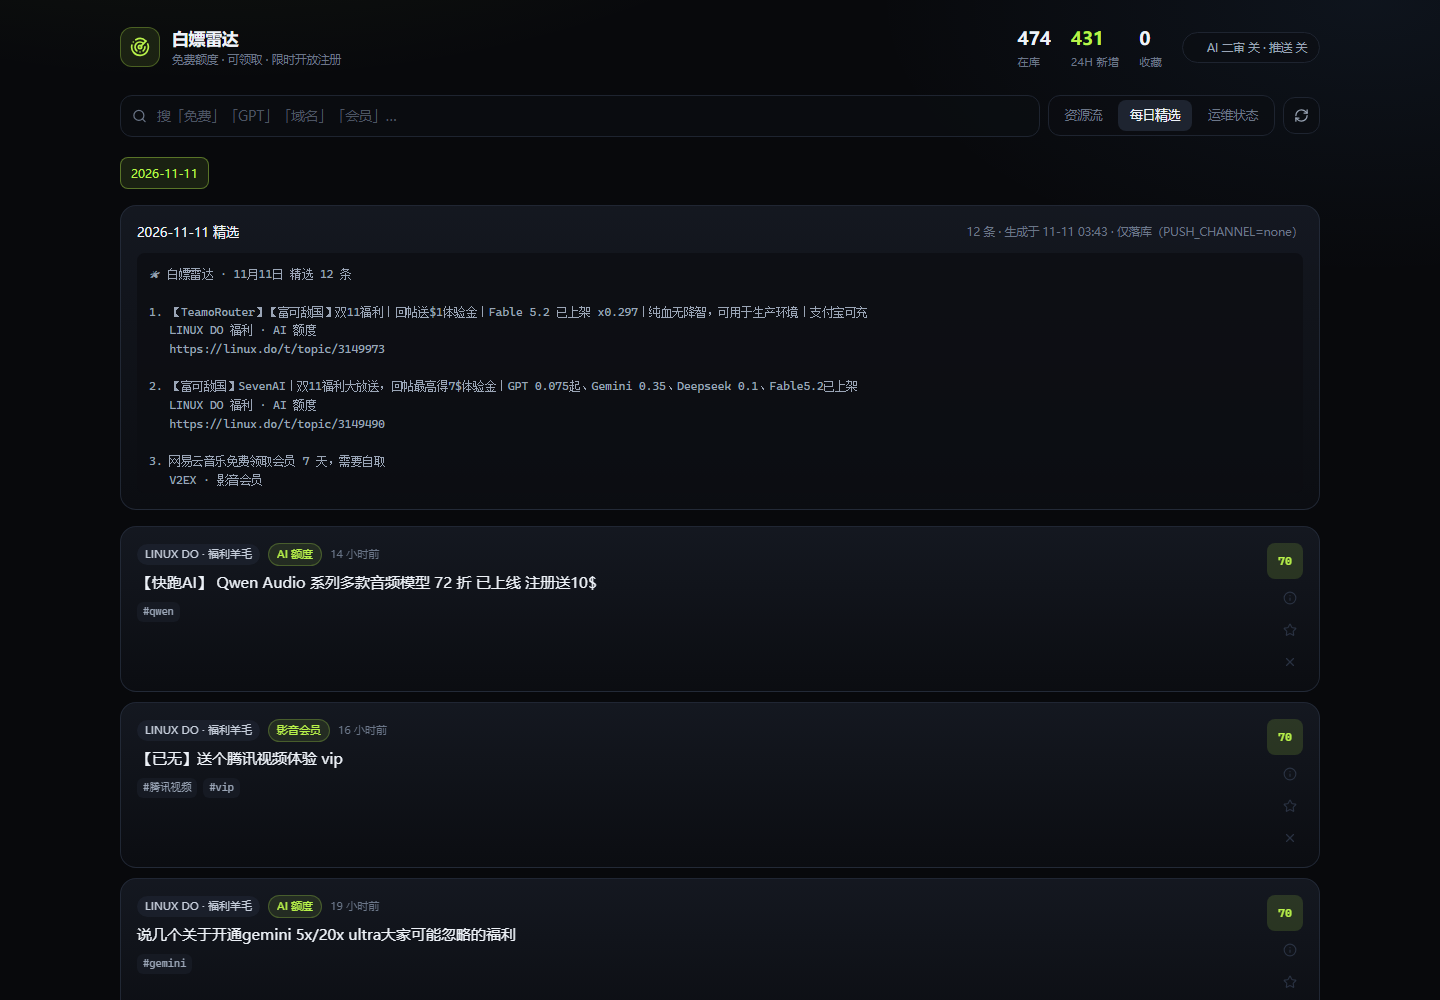
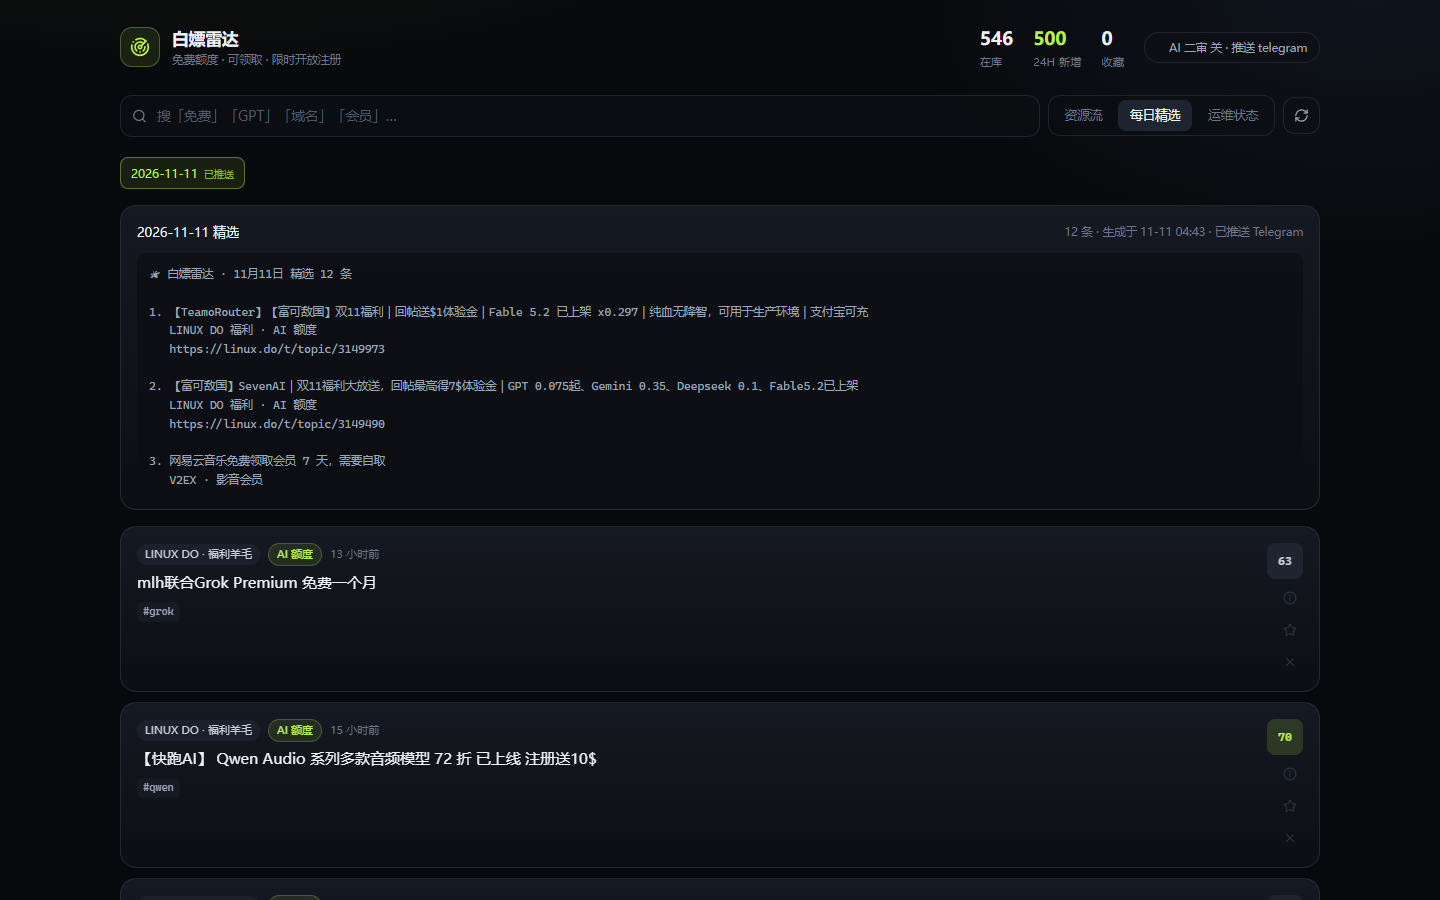
fix: degraded 上报、调度跳过 ingest 源、精选质量门槛、日报截图更新（第三轮审计修复）

diff --git a/src/server/collectors/index.ts b/src/server/collectors/index.ts
@@ -57,6 +57,22 @@ export function ingestItems(sourceId: string, items: RawItem[]): { inserted: num
   }
 }
 
+/** 本机采集器上报「登录态失效 / 被风控 / 抓不到内容」：写 runs 并标记 sources 状态，让 /status 如实反映。 */
+export function markSourceFailure(
+  sourceId: string,
+  reason: string,
+  status: "degraded" | "failed" = "degraded",
+): { ok: true; status: string } {
+  ensureSources();
+  const now = new Date().toISOString();
+  run(
+    "INSERT INTO runs (source_id, started_at, finished_at, status, fetched, inserted, skipped, duration_ms, error) VALUES (?, ?, ?, ?, 0, 0, 0, 0, ?)",
+    sourceId, now, now, status, reason.slice(0, 500),
+  );
+  run("UPDATE sources SET last_run_at = ?, last_status = ?, last_error = ? WHERE id = ?", now, status, reason.slice(0, 300), sourceId);
+  return { ok: true, status };
+}
+
 type SourceRow = {
   id: string;
   name: string;
@@ -289,7 +305,11 @@ export async function runAll(
   options: { http?: HttpClient; maxItems?: number; log?: (message: string) => void } = {},
 ): Promise<RunSummary[]> {
   ensureSources();
-  const rows = all<{ id: string }>("SELECT id FROM sources WHERE enabled = 1 ORDER BY id").map((r) => r.id);
+  // kind 没有对应 collector 的源（例如 kind="ingest"，由本机采集器回传）不参与服务器调度，
+  // 否则每轮都会产生 "no collector registered" 的无意义失败。
+  const rows = all<{ id: string; kind: string }>("SELECT id, kind FROM sources WHERE enabled = 1 ORDER BY id")
+    .filter((r) => BY_KIND.has(r.kind))
+    .map((r) => r.id);
   const filter = config.enabledSources;
   const targets = filter.length ? rows.filter((id) => filter.includes(id)) : rows;
   const out: RunSummary[] = [];

diff --git a/src/server/digest.ts b/src/server/digest.ts
@@ -55,8 +55,20 @@ export function pickDaily(date = new Date(), topN = config.dailyTopN): DigestIte
   );
 
   const pushed = alreadyPushed(dayKey(date));
-  return rows.filter((r) => !pushed.has(r.id)).slice(0, topN);
+  const fresh = rows.filter((r) => !pushed.has(r.id));
+
+  // 质量门槛：精选必须既是高分，标题里也真的带「免费/领取/限额」这类福利信号，
+  // 否则「豆包月卡不够用了」这种讨论帖会混进日报。
+  const strict = fresh.filter((r) => r.score >= MIN_DIGEST_SCORE && DEAL_HINT.test(r.title) && !NOISE_TITLE.test(r.title));
+  // 数量不足时只放宽分数，绝不放宽关键词：宁可一天少发几条，也不让讨论帖混进精选
+  const relaxed = fresh.filter((r) => DEAL_HINT.test(r.title) && !NOISE_TITLE.test(r.title) && r.score >= MIN_DIGEST_SCORE - 10);
+  const pool = strict.length >= Math.min(6, topN) ? strict : relaxed;
+  return pool.slice(0, topN);
 }
+const NOISE_TITLE = /^(怎样|怎么|如何|哪里|哪个)|请问|有没有|求推荐|求一个|哪里(有|能)|值得买吗|怎么样\?|不够用|用完了|失效了|吐槽|踩坑|后悔|失望|盘点|评测|测评/;
+
+const MIN_DIGEST_SCORE = 55;
+const DEAL_HINT = /免费|领取|赠送|白嫖|零元|0\.01|试用|体验金|兑换|激活码|注册送|限时|开放注册|额度|礼包|优惠券|包邮|giveaway|coupon|free/i;
 
 const SOURCE_SHORT: Record<string, string> = {
   "linuxdo-welfare": "LINUX DO 福利",

diff --git a/src/server/routes.ts b/src/server/routes.ts
@@ -1,7 +1,7 @@
 import type { Hono } from "hono";
 import { all, get } from "./db.ts";
 import { aiEnabled, config, pushEnabled } from "./config.ts";
-import { ingestItems } from "./collectors/index.ts";
+import { ingestItems, markSourceFailure } from "./collectors/index.ts";
 import type { RawItem } from "./collectors/types.ts";
 
 export type ItemRow = {
@@ -191,6 +191,16 @@ export function registerApi(app: Hono) {
     });
     const saved = ingestItems(body.sourceId, items);
     return c.json({ ok: true, received: body.items.length, ...saved });
+  });
+
+  app.post("/api/ingest/failed", async (c) => {
+    if (!config.ingestToken) return c.json({ error: "INGEST_TOKEN 未配置" }, 403);
+    const auth = c.req.header("authorization") ?? "";
+    if (auth !== "Bearer " + config.ingestToken) return c.json({ error: "unauthorized" }, 401);
+    const body = (await c.req.json().catch(() => null)) as { sourceId?: string; reason?: string; status?: string } | null;
+    if (!body?.sourceId || !body.reason) return c.json({ error: "sourceId 与 reason 必填" }, 400);
+    const status = body.status === "failed" ? "failed" : "degraded";
+    return c.json(markSourceFailure(body.sourceId, body.reason, status));
   });
   app.get("/api/digests", (c) => {
     return c.json({ digests: all("SELECT date, item_ids, created_at, pushed_at FROM digests ORDER BY date DESC LIMIT 30") });

diff --git a/src/web/src/App.tsx b/src/web/src/App.tsx
@@ -346,7 +346,7 @@ function ItemDetail({ item, onClose, onPatch }: { item: Item; onClose: () => voi
   );
 }
 
-function DigestPanel() {
+function DigestPanel({ onPatch, onOpen }: { onPatch: (id: number, body: Record<string, unknown>) => void; onOpen: (item: Item) => void }) {
   const list = useApi<{ digests: { date: string; created_at: string; pushed_at: string | null }[] }>("/api/digests");
   const dates = list.data?.digests ?? [];
   const [picked, setPicked] = useState<string | null>(null);
@@ -405,7 +405,7 @@ function DigestPanel() {
 
           <div className="space-y-2.5">
             {detail.data.items.map((item) => (
-              <ItemCard key={item.id} item={item} onPatch={() => {}} onOpen={() => {}} />
+              <ItemCard key={item.id} item={item} onPatch={onPatch} onOpen={onOpen} />
             ))}
           </div>
         </>
@@ -648,7 +648,7 @@ export function App() {
 
         <main className="min-w-0 flex-1">
           {tab === "digest" ? (
-            <DigestPanel />
+            <DigestPanel onPatch={patch} onOpen={setDetail} />
           ) : tab === "status" ? (
             <StatusPanel sources={sources.data?.sources ?? []} runs={runs.data?.runs ?? []} />
           ) : (

diff --git a/docs/deploy.md b/docs/deploy.md
@@ -64,6 +64,16 @@ fresh stats:   {"total":10,"active":10,...}
 | README 陈旧（ego-browser / local-collect.mjs） | 全部改为 Playwright + `scripts/pw-collect.mjs` | README 内已无 ego 相关描述 |
 | 前端缺详情视图、SOURCE_LABEL 缺新源、token 硬编码 | 新增 `ItemDetail` 弹窗（摘要/时间/标签/收藏/忽略/原文）；补齐 5 个源的显示名；`pw-collect.mjs` 改为从 `.env` 读 `INGEST_TOKEN`，缺失即退出 | `pnpm build` 通过；`node --check scripts/pw-collect.mjs` 通过 |
 
+### 第三轮修复（针对第二次审计驳回）
+
+| 审计意见 | 修复 | 验证 |
+|---|---|---|
+| 登录态失效时不标 degraded、不写 /status | 新增 `POST /api/ingest/failed`（Bearer 鉴权）+ `markSourceFailure()`；`pw-collect.mjs` 在「需要登录 / 0 条 / 抓取异常」三条路径上报 degraded/failed | 实测：`{"ok":true,"status":"degraded"}`，`/api/sources` 中 zhihu-search 变为 `degraded` 且 `last_error=测试登录态失效`；随后真实采集恢复为 `ok` |
+| 服务器调度把 ingest 源当不支持的源 | `runAll()` 只取 `kind` 有注册 collector 的源，ingest 源不参与服务器调度 | 实测 `ENABLED_SOURCES=zhihu-search collect` → `[collect] done: 0 sources, 0 failed`，不再出现 `no collector registered` |
+| 每日精选里的详情/收藏/忽略按钮无操作 | `DigestPanel` 接收真实 `onPatch` / `onOpen`，与资源流共用同一套 handler | `tsc` 通过，构建产物含「查看详情」「打开原文」 |
+| 日报截图显示「推送关」，与推送声明不一致 | 用 Playwright 重新截图线上 `#digest` | `docs/ui-digest.png` 现在显示「推送 telegram」「2026-11-11 已推送」「12 条 · 已推送 Telegram」 |
+| 精选含「豆包月卡不够用了」「维修被收 2800」等非福利内容 | `pickDaily()` 加三道门槛：`MIN_DIGEST_SCORE=55`、`DEAL_HINT`（必须有免费/领取/额度等福利信号）、`NOISE_TITLE`（排除请问/怎样/求推荐/不够用/评测等讨论帖）；数量不足时只放宽分数，不放宽关键词 | 治理后当日 12 条全部为福利（Grok 免费一个月、Qwen 注册送 10$、网易云会员、BLG 免费领皮肤、邀请码…），无一条讨论/维修/评测帖 |
+| `.env.example` 仍引用 local-collect.mjs | 改为 Playwright 脚本 | 文件内已无 ego/local-collect 字样 |
 ### 采集失败重试
 
 计划任务首次运行出现 zhihu / xhs 的 `TypeError: fetch failed`（Easytier 链路瞬时抖动，同批 xiaoheihe 成功）。已给 `push()` 加 3 次重试 + 60s 单次超时 + 打印 `err.cause`，重跑计划任务三站全部 200。
